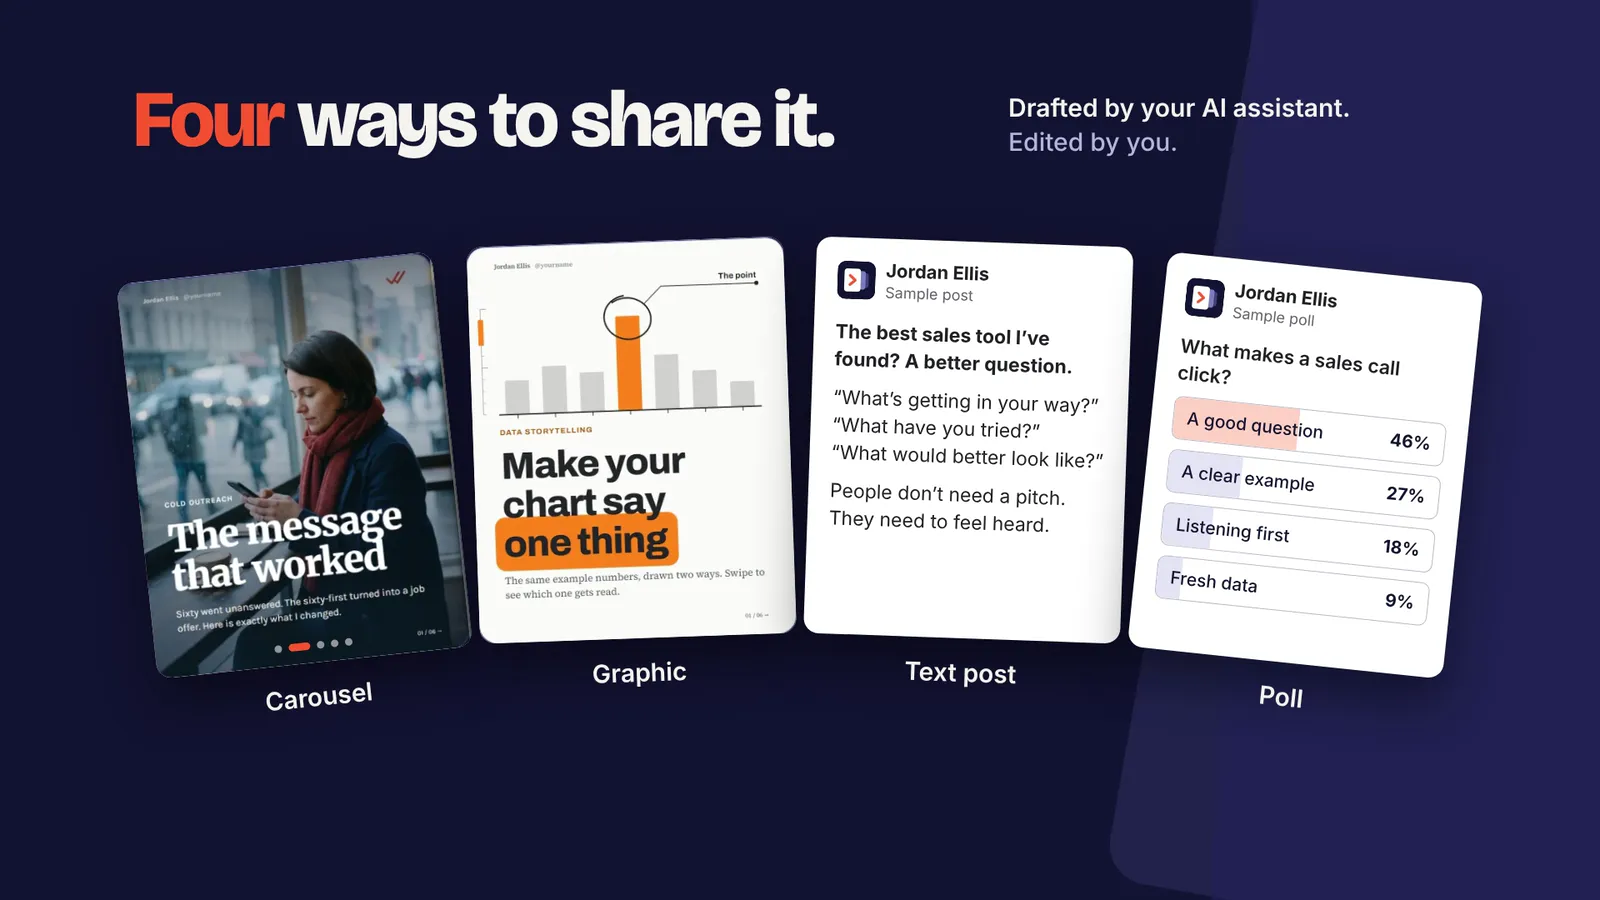
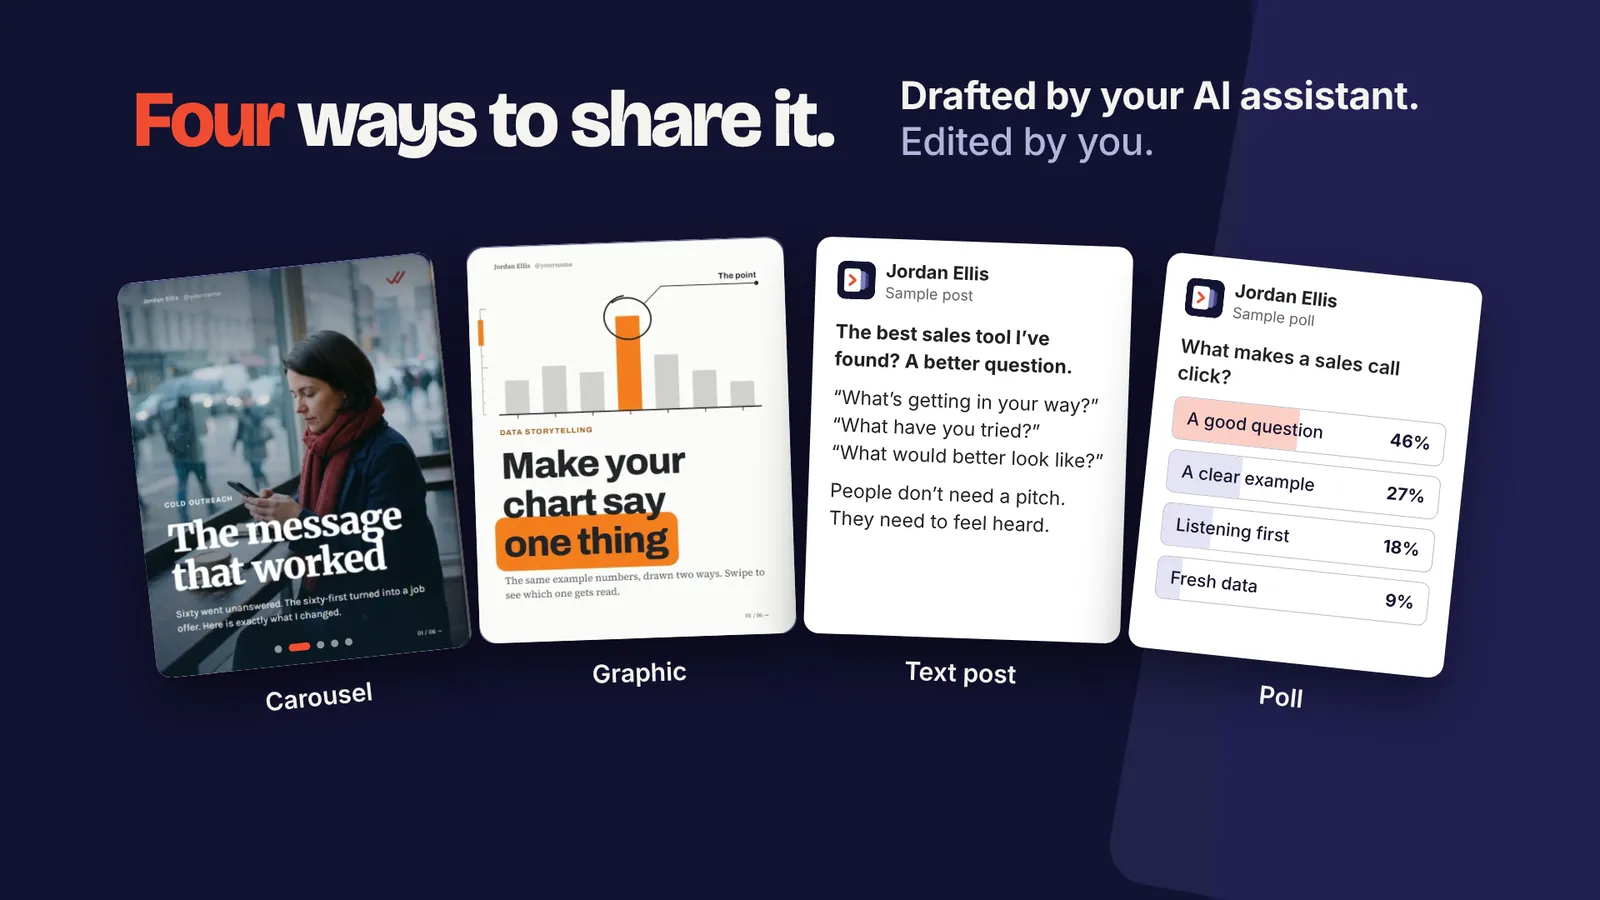
Home page: say the AI assistant drafts the posts (headline, How it works, studio, descriptions); films with a larger AI line (#36)
Claude-Session: https://claude.ai/code/session_01BbX3xyR73s9YjosbNPKrTw

Changed region(s): [[0.5625, 0.0933, 0.9062, 0.1867]]

diff --git a/index.html b/index.html
@@ -5,7 +5,7 @@
 <meta name="viewport" content="width=device-width,initial-scale=1">
 <meta name="msvalidate.01" content="E2F9327BED2C4CF9744B09833F560B72" />
 <title>Briopost — LinkedIn posts in your voice, ready in minutes</title>
-<meta name="description" content="Briopost is a creative studio for LinkedIn, now in a free invite-only beta: turn one idea into a carousel, graphic, text post or poll in your voice and brand. Free during the beta. Join the waitlist.">
+<meta name="description" content="Briopost is a creative studio for LinkedIn, now in a free invite-only beta: its AI assistant turns one idea into a carousel, graphic, text post or poll in your voice and brand. Free during the beta.">
 <meta name="robots" content="index, follow, max-image-preview:large, max-snippet:-1, max-video-preview:-1">
 <link rel="canonical" href="https://briopost.com/">
 <link rel="alternate" type="text/plain" href="llms.txt" title="Briopost in plain text, for AI assistants">
@@ -21,7 +21,7 @@
 <meta property="og:locale" content="en_US">
 <meta property="og:url" content="https://briopost.com/">
 <meta property="og:title" content="Briopost — LinkedIn posts in your voice, ready in minutes">
-<meta property="og:description" content="A creative studio for LinkedIn, in a free invite-only beta. Turn one idea into a carousel, graphic, text post or poll in your voice and brand. Nothing posts without your OK.">
+<meta property="og:description" content="A creative studio for LinkedIn, in a free invite-only beta. Your AI assistant turns one idea into a carousel, graphic, text post or poll in your voice and brand. Nothing posts without your OK.">
 <meta property="og:image" content="https://briopost.com/assets/briopost-link-card.png">
 <meta property="og:image:type" content="image/png">
 <meta property="og:image:width" content="1200">
@@ -44,7 +44,7 @@
 <script src="assets/visit.js" defer></script>
 <script src="assets/motion.js" defer></script>
 <script type="module" src="https://static.cloudflareinsights.com/beacon.min.js" data-cf-beacon='{"token": "a71b1a473b96486a95287332d69005f2"}'></script>
-<script type="application/ld+json">{"@context":"https://schema.org","@graph":[{"@type":"Organization","@id":"https://briopost.com/#org","name":"Briopost","legalName":"Briopost LLC","url":"https://briopost.com/","logo":"https://briopost.com/assets/briopost-icon.svg","email":"info@briopost.com","slogan":"Post with brio."},{"@type":"WebSite","@id":"https://briopost.com/#website","name":"Briopost","url":"https://briopost.com/","inLanguage":"en-US","publisher":{"@id":"https://briopost.com/#org"},"description":"Briopost is a creative studio for LinkedIn: turn one idea into a carousel, graphic, text post or poll in your own voice and brand."},{"@type":"WebPage","@id":"https://briopost.com/#webpage","url":"https://briopost.com/","name":"Briopost — LinkedIn posts in your voice, ready in minutes","isPartOf":{"@id":"https://briopost.com/#website"},"about":{"@id":"https://briopost.com/#app"},"primaryImageOfPage":"https://briopost.com/assets/briopost-link-card.png","inLanguage":"en-US"},{"@type":"SoftwareApplication","@id":"https://briopost.com/#app","name":"Briopost","url":"https://briopost.com/","applicationCategory":"BusinessApplication","operatingSystem":"Web browser","description":"A creative studio for LinkedIn: turn one idea into carousels, graphics, text posts and polls in your own voice and brand. Nothing posts without your OK.","image":"https://briopost.com/assets/briopost-link-card.png","publisher":{"@id":"https://briopost.com/#org"},"slogan":"Post with brio.","inLanguage":"en-US"},{"@type":"FAQPage","@id":"https://briopost.com/#faq","mainEntity":[{"@type":"Question","name":"Do I need my own AI account?","acceptedAnswer":{"@type":"Answer","text":"No. AI is included, paid for with monthly AI credits, and Briopost shows you the cost in credits before each AI action. If you would rather use your own Claude, OpenAI or fal key, there will be a cheaper plan for that."}},{"@type":"Question","name":"Does anything post without me?","acceptedAnswer":{"@type":"Answer","text":"Never. Every post waits for your OK. Nothing goes to LinkedIn until you confirm it yourself."}},{"@type":"Question","name":"When does it open?","acceptedAnswer":{"@type":"Answer","text":"The free, invite-only beta is under way now. After it, Briopost opens to everyone. Join the waitlist and we’ll email you when it does."}},{"@type":"Question","name":"Is it made by LinkedIn?","acceptedAnswer":{"@type":"Answer","text":"No. Briopost is independent. It is not affiliated with or endorsed by LinkedIn."}},{"@type":"Question","name":"What will it cost?","acceptedAnswer":{"@type":"Answer","text":"The beta is free, and it includes AI credits. We’ll share pricing before anyone pays. Briopost shows the cost in credits before each AI action."}}]}]}</script>
+<script type="application/ld+json">{"@context":"https://schema.org","@graph":[{"@type":"Organization","@id":"https://briopost.com/#org","name":"Briopost","legalName":"Briopost LLC","url":"https://briopost.com/","logo":"https://briopost.com/assets/briopost-icon.svg","email":"info@briopost.com","slogan":"Post with brio."},{"@type":"WebSite","@id":"https://briopost.com/#website","name":"Briopost","url":"https://briopost.com/","inLanguage":"en-US","publisher":{"@id":"https://briopost.com/#org"},"description":"Briopost is a creative studio for LinkedIn: its AI assistant turns one idea into a carousel, graphic, text post or poll in your own voice and brand."},{"@type":"WebPage","@id":"https://briopost.com/#webpage","url":"https://briopost.com/","name":"Briopost — LinkedIn posts in your voice, ready in minutes","isPartOf":{"@id":"https://briopost.com/#website"},"about":{"@id":"https://briopost.com/#app"},"primaryImageOfPage":"https://briopost.com/assets/briopost-link-card.png","inLanguage":"en-US"},{"@type":"SoftwareApplication","@id":"https://briopost.com/#app","name":"Briopost","url":"https://briopost.com/","applicationCategory":"BusinessApplication","operatingSystem":"Web browser","description":"A creative studio for LinkedIn: an AI assistant turns one idea into carousels, graphics, text posts and polls in your own voice and brand. Nothing posts without your OK.","image":"https://briopost.com/assets/briopost-link-card.png","publisher":{"@id":"https://briopost.com/#org"},"slogan":"Post with brio.","inLanguage":"en-US"},{"@type":"FAQPage","@id":"https://briopost.com/#faq","mainEntity":[{"@type":"Question","name":"Do I need my own AI account?","acceptedAnswer":{"@type":"Answer","text":"No. AI is included, paid for with monthly AI credits, and Briopost shows you the cost in credits before each AI action. If you would rather use your own Claude, OpenAI or fal key, there will be a cheaper plan for that."}},{"@type":"Question","name":"Does anything post without me?","acceptedAnswer":{"@type":"Answer","text":"Never. Every post waits for your OK. Nothing goes to LinkedIn until you confirm it yourself."}},{"@type":"Question","name":"When does it open?","acceptedAnswer":{"@type":"Answer","text":"The free, invite-only beta is under way now. After it, Briopost opens to everyone. Join the waitlist and we’ll email you when it does."}},{"@type":"Question","name":"Is it made by LinkedIn?","acceptedAnswer":{"@type":"Answer","text":"No. Briopost is independent. It is not affiliated with or endorsed by LinkedIn."}},{"@type":"Question","name":"What will it cost?","acceptedAnswer":{"@type":"Answer","text":"The beta is free, and it includes AI credits. We’ll share pricing before anyone pays. Briopost shows the cost in credits before each AI action."}}]}]}</script>
 </head>
 <body>
 <a class="skip" href="#main">Skip to content</a>
@@ -60,7 +60,7 @@
 <section class="hero wrap" aria-labelledby="hero-title">
   <p class="eyebrow">A creative studio for LinkedIn · In beta</p>
   <h1 id="hero-title">LinkedIn posts in your voice, <span class="accent">ready in minutes.</span></h1>
-  <p class="intro">Turn one idea into a carousel, graphic, text post or poll that looks, sounds and feels like you.</p>
+  <p class="intro">Your AI assistant turns one idea into a carousel, graphic, text post or poll that looks, sounds and feels like you.</p>
   <form class="wl-form hero-form" id="hw-form" data-api="https://app.briopost.com/api/waitlist" novalidate>
     <fieldset id="hw-fields" disabled>
       <legend class="sr-only">Quick sign-up for the Briopost waitlist</legend>
@@ -116,7 +116,7 @@
   </div>
   <ol class="steps">
     <li class="step panel"><span class="step-num" aria-hidden="true">1</span><h3>Start with an idea</h3><p>Paste your notes, a link or a rough thought.</p></li>
-    <li class="step panel"><span class="step-num" aria-hidden="true">2</span><h3>Pick a format</h3><p>A carousel, a graphic, a text post or a poll.</p></li>
+    <li class="step panel"><span class="step-num" aria-hidden="true">2</span><h3>Your AI assistant drafts it</h3><p>A carousel, a graphic, a text post or a poll, in your voice.</p></li>
     <li class="step panel"><span class="step-num" aria-hidden="true">3</span><h3>Make it yours</h3><p>Your colors, your fonts and your voice. Edit until it feels right.</p></li>
     <li class="step panel step-key"><span class="step-num" aria-hidden="true">4</span><h3>You approve</h3><p>You read the final post and give your OK.</p></li>
     <li class="step panel"><span class="step-num" aria-hidden="true">5</span><h3>It posts</h3><p>Only after your OK, at the time you choose.</p></li>
@@ -152,7 +152,7 @@
       <source src="assets/film/briopost-home-loop.mp4" type="video/mp4">
     </video>
     <button type="button" class="film-toggle" id="film-toggle" aria-pressed="false" hidden>Pause</button>
-    <figcaption id="film-cap">One thought becomes a carousel, a graphic, a text post and a poll, in the real studio, and nothing posts until you give your OK. Silent loop, sample content.</figcaption>
+    <figcaption id="film-cap">One thought becomes a carousel, a graphic, a text post and a poll, drafted by your AI assistant in the real studio, and nothing posts until you give your OK. Silent loop, sample content.</figcaption>
     <p class="film-sound-row"><button type="button" class="button button-ghost button-small film-sound-open" id="film-sound-open" aria-haspopup="dialog" aria-controls="film-sound" hidden>Watch with sound <span class="film-sound-len">37 s</span></button></p>
   </figure>
   <!-- Real app screenshots (assets/shots/). To add one, copy a <figure> line. -->
@@ -182,7 +182,7 @@
   <div class="about-inner wrap">
     <h2 id="about-title">Less blank page.<br>More <span class="you">you.</span></h2>
     <div>
-      <p>Start with notes, a link, a document or a rough idea. Shape it into a carousel, graphic, text post or poll. Bring your colors and your voice. Edit until it feels right, then plan when to share it.</p>
+      <p>Start with notes, a link, a document or a rough idea. Your AI assistant shapes it into a carousel, graphic, text post or poll. Bring your colors and your voice. Edit until it feels right, then plan when to share it.</p>
       <p class="promise">You stay in control of what gets posted.</p>
       <p class="later">Briopost is in a free, invite-only beta. <a href="#waitlist">Join the waitlist</a> and we’ll let you know when it opens to everyone.</p>
     </div>
